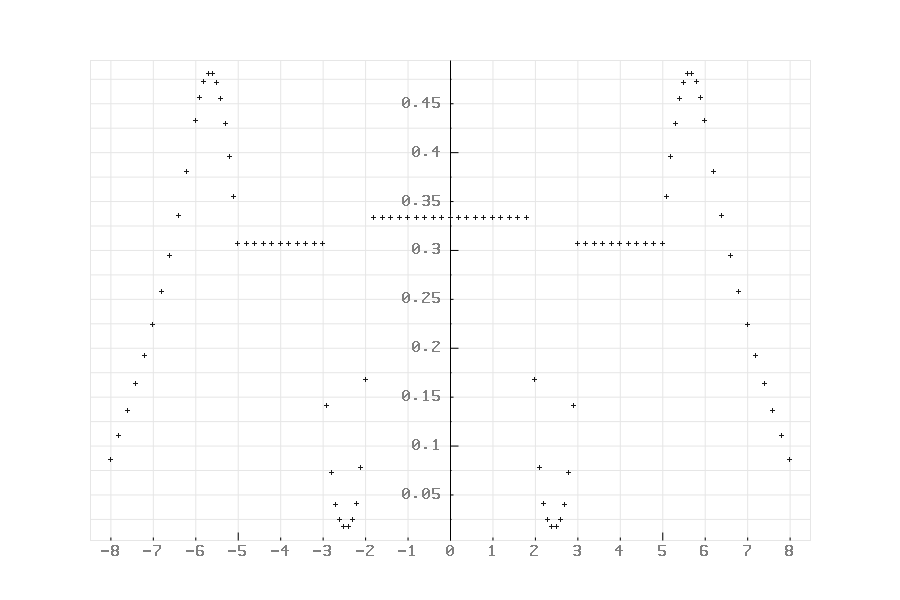
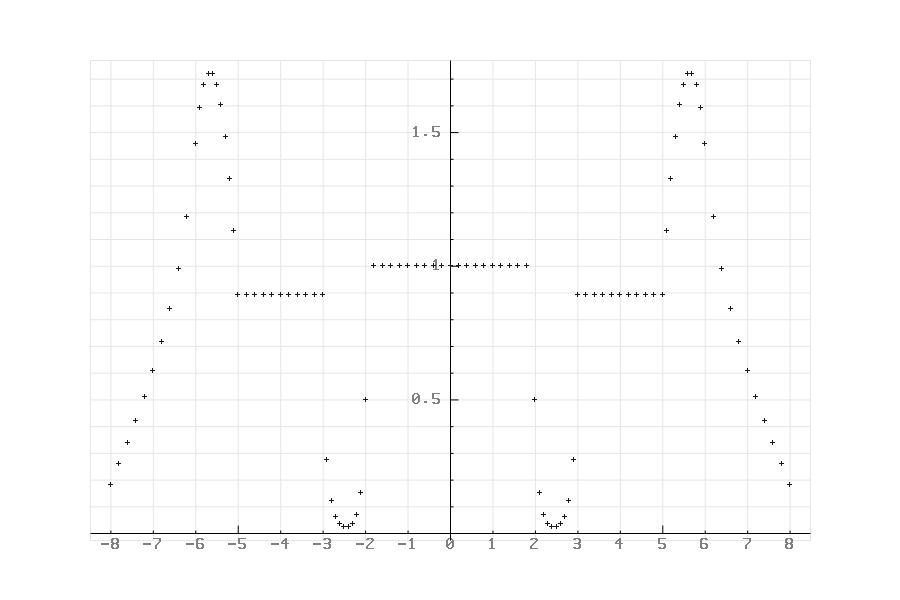
w_2 = 0, PSI_0[i] /= D[i]

diff --git a/Progonka_v2/QuasidiffusionReed.cpp b/Progonka_v2/QuasidiffusionReed.cpp
@@ -18,7 +18,7 @@ using namespace std;
 void runQuasidiffusion_Reed() {
 	ofstream fout("Quasidiffusion_output_Reed.txt");
 
-	const double w_0 = 1.0, w_1 = 0.5, w_2 = 0.2;
+	const double w_0 = 1.0, w_1 = 0.5, w_2 = 0;
 	const double nu = 1;
 	const int mult = 10;
 	DataGrid quasiDG = readDataGridCellSectionsCellSources("QuasidiffusionDataGrid_Reed.txt").multiplied(mult);
@@ -61,6 +61,7 @@ void runQuasidiffusion_Reed() {
 
 		double* PSI_0 = new double[size], * PSI_1 = new double[size];
 		Progonka(in, out, quasiCoeff, PSI_0, PSI_1);
+		for (int i = in; i <= out; i++) { PSI_0[i] /= D[i]; }
 		writeArrayEndl(PSI_0, in, out, &fout);
 		plot(curQuasiDg.r, PSI_0, in, out, "plot_Reed_" + std::to_string(it) + ".png");
 
